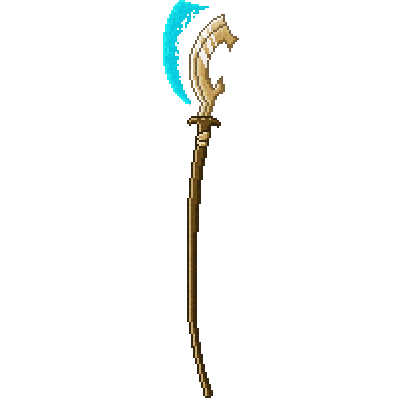
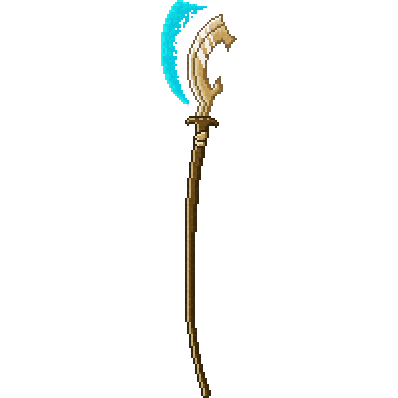
boss phase enums and wip sprite flip iin halberd

Changed region(s): [[0.392, 0.0, 0.603, 1.0]]

diff --git a/NPCs/Bosses/DesertBoss.cs b/NPCs/Bosses/DesertBoss.cs
@@ -10,9 +10,11 @@ namespace DesertMod.NPCs.Bosses
     [AutoloadBossHead]
     public class DesertBoss : ModNPC
     {
+        private enum BossPhase { HEALTHY, DAMAGED, RAGED }
+
         // AI
         private int aiPhase = 0;
-        private int attackTimer = 0;
+        private BossPhase currentPhase = BossPhase.HEALTHY;
 
         // Animation
         private int frame = 0;
@@ -64,6 +66,10 @@ namespace DesertMod.NPCs.Bosses
         {
             if (aiPhase == 0) DesertMod.instance.ShowDebugUI();
 
+            if (npc.life >= npc.lifeMax / 2) currentPhase = BossPhase.HEALTHY;
+            else if (npc.life <= npc.lifeMax / 2 && npc.life >= npc.lifeMax / 3) currentPhase = BossPhase.DAMAGED;
+            else currentPhase = BossPhase.RAGED;
+
             // Add "tick" to the phase counter of AI
             aiPhase++;
 
@@ -100,7 +106,7 @@ namespace DesertMod.NPCs.Bosses
             towardsPlayer.Normalize();
 
             // When healthy
-            if (npc.life >= npc.lifeMax / 2)
+            if (currentPhase == BossPhase.HEALTHY)
             {
                 // Movement
                 int distance = (int)Vector2.Distance(target, npc.Center);
@@ -127,7 +133,7 @@ namespace DesertMod.NPCs.Bosses
             }
 
             // Below half HP
-            else if (npc.life < npc.lifeMax / 2)
+            else if (currentPhase == BossPhase.DAMAGED)
             {
                 npc.velocity = Vector2.Zero;
                 if (aiPhase >= 150 && aiPhase < 151)
@@ -135,15 +141,14 @@ namespace DesertMod.NPCs.Bosses
                     int pro = Projectile.NewProjectile(bossCenter, Vector2.Zero, mod.ProjectileType("DesertBossProjectileHalberd"), halberdDamage, 0f);
                     Main.projectile[pro].ai[0] = npc.whoAmI;
                     Main.projectile[pro].ai[1] = 0f;
+                }
+                if (aiPhase >= 350 && aiPhase < 351)
+                {
+                    int pro = Projectile.NewProjectile(bossCenter, Vector2.Zero, mod.ProjectileType("DesertBossProjectileHalberd"), halberdDamage, 0f);
+                    Main.projectile[pro].ai[0] = npc.whoAmI;
+                    Main.projectile[pro].ai[1] = 1f;
                     aiPhase = 0;
                 }
-                //if (aiPhase >= 250 && aiPhase < 251)
-                //{
-                //    int pro = Projectile.NewProjectile(bossCenter, Vector2.Zero, mod.ProjectileType("DesertBossProjectileHalberd"), halberdDamage, 0f);
-                //    Main.projectile[pro].ai[0] = npc.whoAmI;
-                //    Main.projectile[pro].ai[1] = 1f;
-                //    aiPhase = 0;
-                //}
             }
         }
 

diff --git a/Projectiles/Bosses/DesertBossProjectileHalberd.cs b/Projectiles/Bosses/DesertBossProjectileHalberd.cs
@@ -1,8 +1,7 @@
 using Terraria;
-using Terraria.ID;
-using Terraria.ModLoader;
 using Microsoft.Xna.Framework;
 using System;
+using Microsoft.Xna.Framework.Graphics;
 
 namespace DesertMod.Projectiles.Bosses
 {
@@ -191,6 +190,32 @@ namespace DesertMod.Projectiles.Bosses
 
             // Add tick to ai phase
             aiPhase++;
+        }
+
+        public override bool PreDraw(SpriteBatch spriteBatch, Color lightColor)
+        {
+            if (!leftToRight)
+            {
+                Texture2D texture = Main.projectileTexture[projectile.type];
+                int frameHeight = Main.projectileTexture[projectile.type].Height / Main.projFrames[projectile.type];
+                int startY = frameHeight * projectile.frame;
+                Rectangle sourceRectangle = new Rectangle(0, startY, texture.Width, frameHeight);
+                Vector2 origin = sourceRectangle.Size() / 2f;
+                Main.spriteBatch.Draw(texture,
+                    projectile.position,
+                    sourceRectangle,
+                    projectile.GetAlpha(lightColor),
+                    projectile.rotation,
+                    origin,
+                    projectile.scale,
+                    SpriteEffects.FlipHorizontally,
+                    0f);
+            }
+            else
+            {
+                base.PreDraw(spriteBatch, lightColor);                
+            }
+            return true;
         }
 
         // Initializes one-time calculated values
